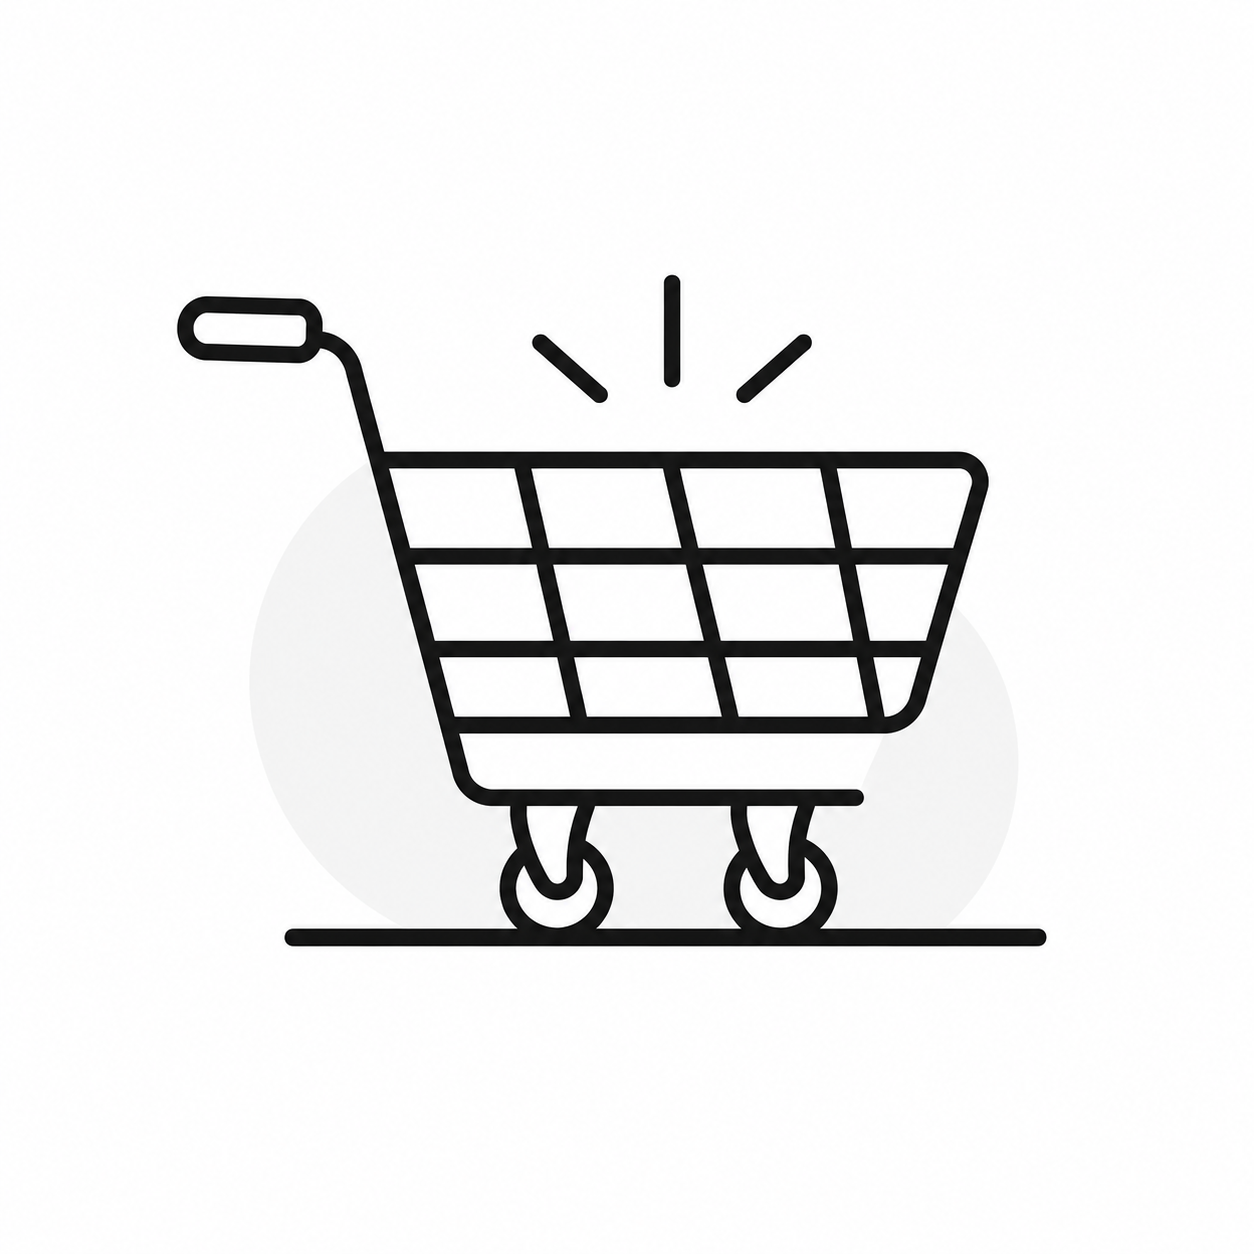
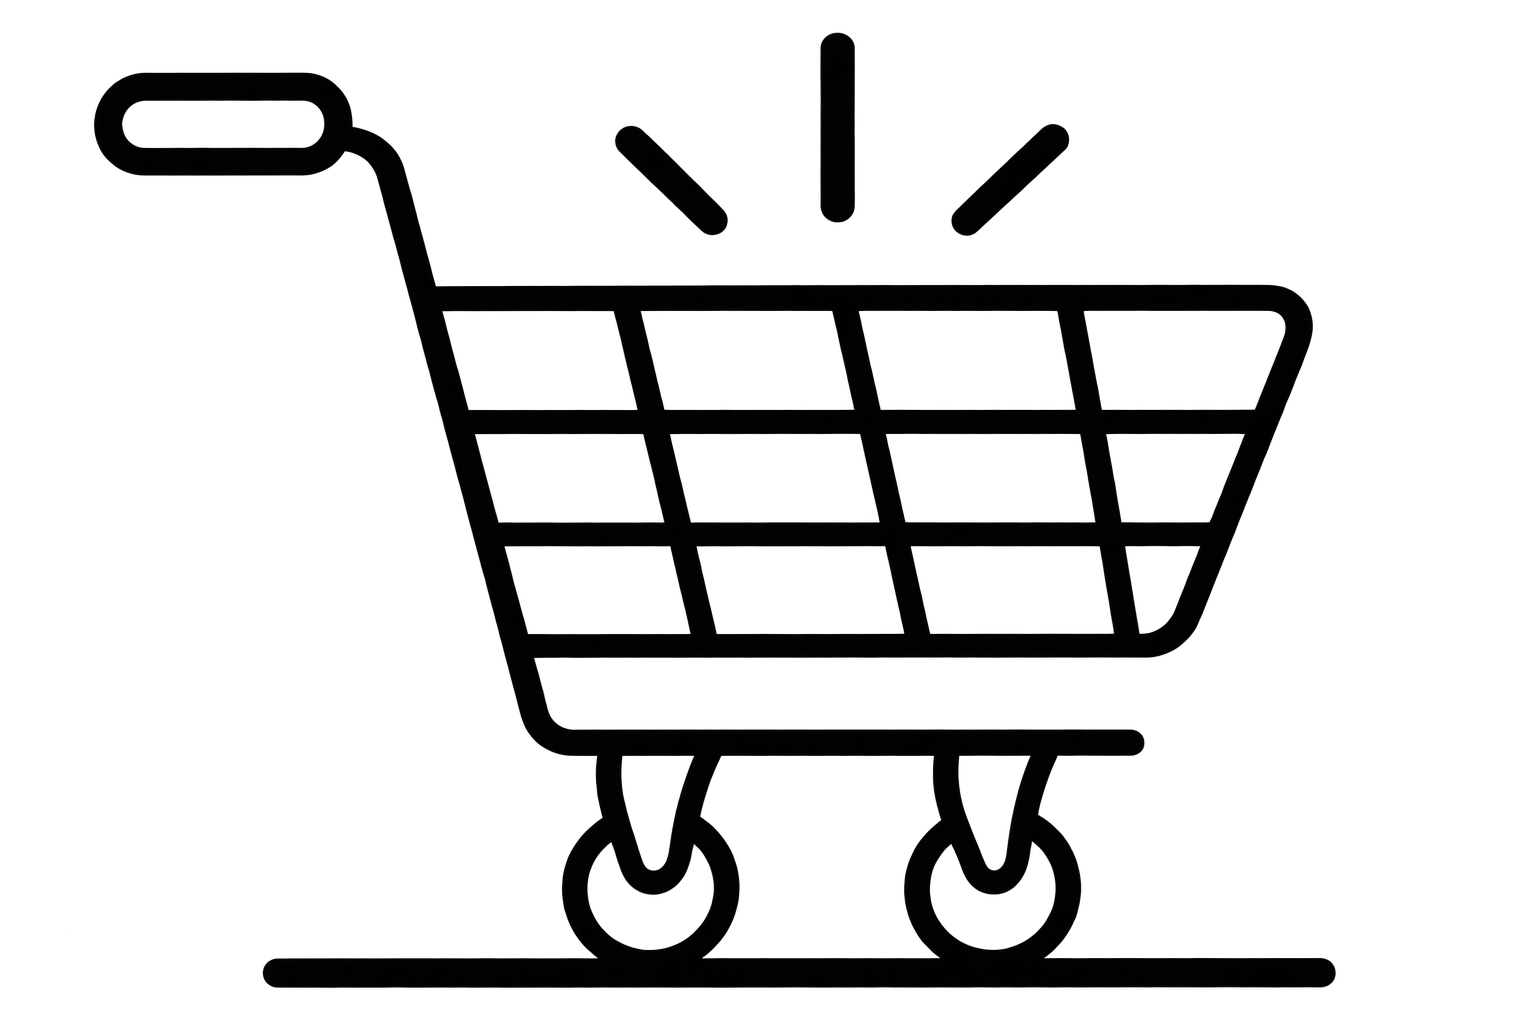
estructura admin

Changed region(s): [[0.0622, 0.0312, 0.8708, 0.9688]]

diff --git a/frontend/src/App.tsx b/frontend/src/App.tsx
@@ -15,6 +15,12 @@ import { SuccessFeedback } from "./components/feedback/SuccessFeedback"
 import { ErrorFeedback } from "./components/feedback/ErrorFeedback"
 import Home from "./components/Home";
 import { Loading } from "./components/feedback/Loading";
+import { Login } from "./pages/admin/Login";
+import { AddProduct } from "./pages/admin/AddProduct";
+import { Products } from "./pages/admin/Products";
+import { ReviewStock } from "./pages/admin/ReviewStock";
+import { Statistics } from "./pages/admin/Statistics";
+import { Stock } from "./pages/admin/Stock";
 
 function App() {
 
@@ -39,6 +45,18 @@ function App() {
                 <Route path="/loading" element={<Loading />} />
 
                 <Route path="/test" element={<ErrorFeedback />} />
+
+                {/* Admin */}
+            <Route path="/admin">
+                <Route path="/Login" element={<Login />} />
+                <Route path="/AddProduct" element={<AddProduct />} />
+                <Route path="/Products" element={<Products />} />
+                <Route path="/ReviewStock" element={<ReviewStock />} />
+                <Route path="/Statistics" element={<Statistics />} />
+                <Route path="/Stock" element={<Stock />} />
+
+            </Route>
+
             </Routes>
         </BrowserRouter>
     )

diff --git a/frontend/src/components/CartEmpty.tsx b/frontend/src/components/CartEmpty.tsx
@@ -1,10 +1,16 @@
 export const CartEmpty = () => {
     return (
-        <div className=" flex-1 flex flex-col justify-center items-center pb-6 ">
-            <img src="/cart-empty.png" alt="Carrito" className=" w-[65vw] max-w-[330px] h-auto " />
-            <h2 className=" font-medium text-2xl text-center ">
-                ¡Tu carrito está vacío!
-            </h2>
-        </div>
-    )
+    <div className="flex-1 flex flex-col justify-center items-center pb-6 text-black dark:text-white">
+        <img 
+            src="/cart-empty.png" 
+            alt="Carrito" 
+            // 'invert' lo vuelve oscuro en el modo claro (si el original era blanco)
+            // 'dark:invert-0' (o simplemente quitarlo) deja el icono blanco original en el modo oscuro
+            className="w-[65vw] max-w-[330px] h-auto invert dark:invert-0" 
+        />
+        <h2 className="font-medium text-2xl text-center">
+            ¡Tu carrito está vacío!
+        </h2>
+    </div>
+)
 }

diff --git a/frontend/src/components/Home.tsx b/frontend/src/components/Home.tsx
@@ -104,7 +104,7 @@ export default function Home() {
         {/* Logo */}
         <div
           data-aos="zoom-in"
-          className="absolute left-0 z-10 w-32 h-32"
+          className="absolute left-0 z-10 w-32 h-32 "
         >
           <img
             src="/logo.png"

diff --git a/frontend/src/pages/admin/AddProduct.tsx b/frontend/src/pages/admin/AddProduct.tsx
@@ -1,0 +1,5 @@
+export function AddProduct() {
+  return (
+    <div></div>
+  );
+}

diff --git a/frontend/src/pages/admin/ReviewStock.tsx b/frontend/src/pages/admin/ReviewStock.tsx
@@ -1,0 +1,5 @@
+export function ReviewStock() {
+  return (
+   <div></div>
+  );
+}

diff --git a/frontend/src/pages/admin/Statistics.tsx b/frontend/src/pages/admin/Statistics.tsx
@@ -1,0 +1,5 @@
+export function Statistics() {
+  return (
+   <div></div> 
+  );
+}

diff --git a/frontend/src/pages/admin/Products.tsx b/frontend/src/pages/admin/Products.tsx
@@ -1,0 +1,5 @@
+export function Products() {
+  return (
+    <div></div>
+  );
+}

diff --git a/frontend/src/pages/admin/Login.tsx b/frontend/src/pages/admin/Login.tsx
@@ -1,0 +1,5 @@
+export function Login() {
+  return (
+    <div></div>
+  );
+}

diff --git a/frontend/src/pages/admin/Stock.tsx b/frontend/src/pages/admin/Stock.tsx
@@ -1,0 +1,5 @@
+export function Stock() {
+  return (
+   <div></div>
+  );
+}
